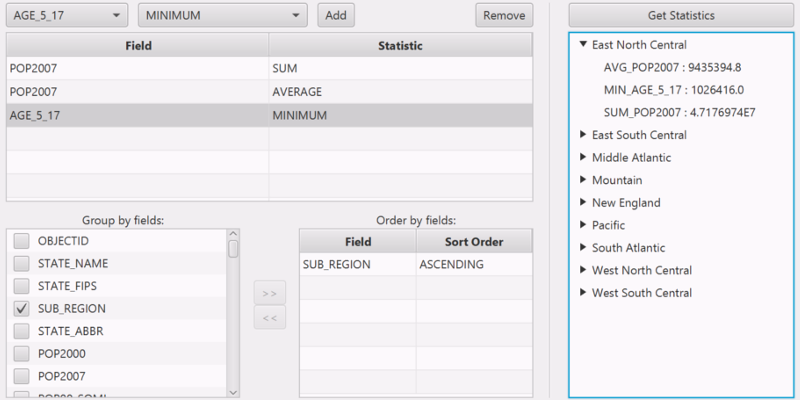
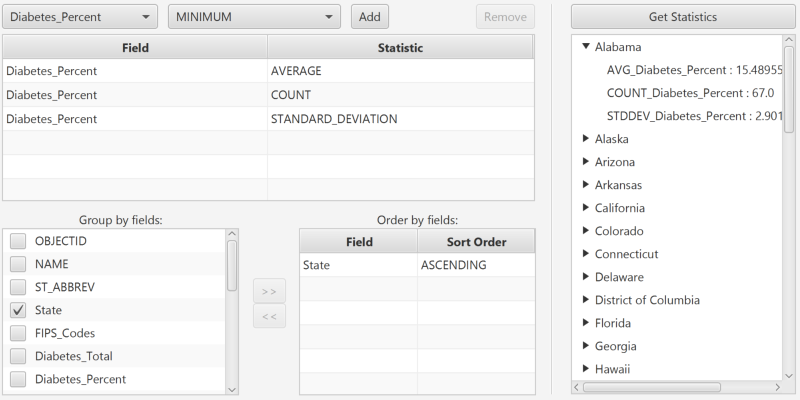
change data service

diff --git a/src/main/java/com/esri/samples/featurelayers/statistical_query_group_and_sort/StatisticalQueryGroupAndSortController.java b/src/main/java/com/esri/samples/featurelayers/statistical_query_group_and_sort/StatisticalQueryGroupAndSortController.java
@@ -3,6 +3,7 @@ package com.esri.samples.featurelayers.statistical_query_group_and_sort;
 import java.util.Arrays;
 import java.util.Iterator;
 import java.util.List;
+import java.util.Objects;
 import java.util.stream.Collectors;
 
 import javafx.fxml.FXML;
@@ -56,7 +57,7 @@ public class StatisticalQueryGroupAndSortController {
     initializeOrderByTableView();
 
     // load the service feature table
-    String USStatesServiceUri = "https://sampleserver6.arcgisonline.com/arcgis/rest/services/Census/MapServer/3";
+    String USStatesServiceUri = "https://services.arcgis.com/jIL9msH9OI208GCb/arcgis/rest/services/Counties_Obesity_Inactivity_Diabetes_2013/FeatureServer/0";
     featureTable = new ServiceFeatureTable(USStatesServiceUri);
     featureTable.loadAsync();
     featureTable.addDoneLoadingListener(() -> {
@@ -73,16 +74,16 @@ public class StatisticalQueryGroupAndSortController {
             (Collectors.toList()));
 
         // set some default selections
-        fieldNameComboBox.getSelectionModel().select("AGE_5_17");
+        fieldNameComboBox.getSelectionModel().select("Diabetes_Percent");
         statisticTypeComboBox.getSelectionModel().select("MINIMUM");
         statisticDefinitionsTableView.getItems().addAll(
-            new StatisticDefinition("POP2007", StatisticType.SUM),
-            new StatisticDefinition("POP2007", StatisticType.AVERAGE),
-            new StatisticDefinition("AGE_5_17", StatisticType.MINIMUM)
+            new StatisticDefinition("Diabetes_Percent", StatisticType.AVERAGE),
+            new StatisticDefinition("Diabetes_Percent", StatisticType.COUNT),
+            new StatisticDefinition("Diabetes_Percent", StatisticType.STANDARD_DEVIATION)
         );
-        groupFieldsListView.getItems().stream().filter(f -> f.getFieldName().equals("SUB_REGION")).collect(Collectors
+        groupFieldsListView.getItems().stream().filter(f -> f.getFieldName().equals("State")).collect(Collectors
             .toList()).get(0).setGrouping(true);
-        orderByTableView.getItems().add(new OrderByField(new QueryParameters.OrderBy("SUB_REGION", QueryParameters.SortOrder
+        orderByTableView.getItems().add(new OrderByField(new QueryParameters.OrderBy("State", QueryParameters.SortOrder
             .ASCENDING)));
       } else {
         new Alert(Alert.AlertType.ERROR, "Failed to load feature table").show();
@@ -244,6 +245,9 @@ public class StatisticalQueryGroupAndSortController {
 
     // add the fields from the Order By table into the parameters' order-by fields
     queryParameters.getOrderByFields().addAll(orderByTableView.getItems().stream().map(OrderByField::getOrderBy).collect(Collectors.toList()));
+
+    // ignore counties with missing data
+    queryParameters.setWhereClause("\"State\" IS NOT NULL");
 
     // execute the statistics query
     ListenableFuture<StatisticsQueryResult> statisticsQuery = featureTable.queryStatisticsAsync(queryParameters);

diff --git a/src/main/java/com/esri/samples/featurelayers/statistical_query_group_and_sort/README.md b/src/main/java/com/esri/samples/featurelayers/statistical_query_group_and_sort/README.md
@@ -1,6 +1,6 @@
 <h1>Statistical Query Group And Sort</h1>
 
-<p>Demonstrates how to query a feature table for statistics grouping and sorting by different fields.</p>
+<p>Demonstrates how to query a feature table for statistics, grouping and sorting by different fields.</p>
 
 <p><img src="StatisticalQueryGroupAndSort.png"></p>
 
